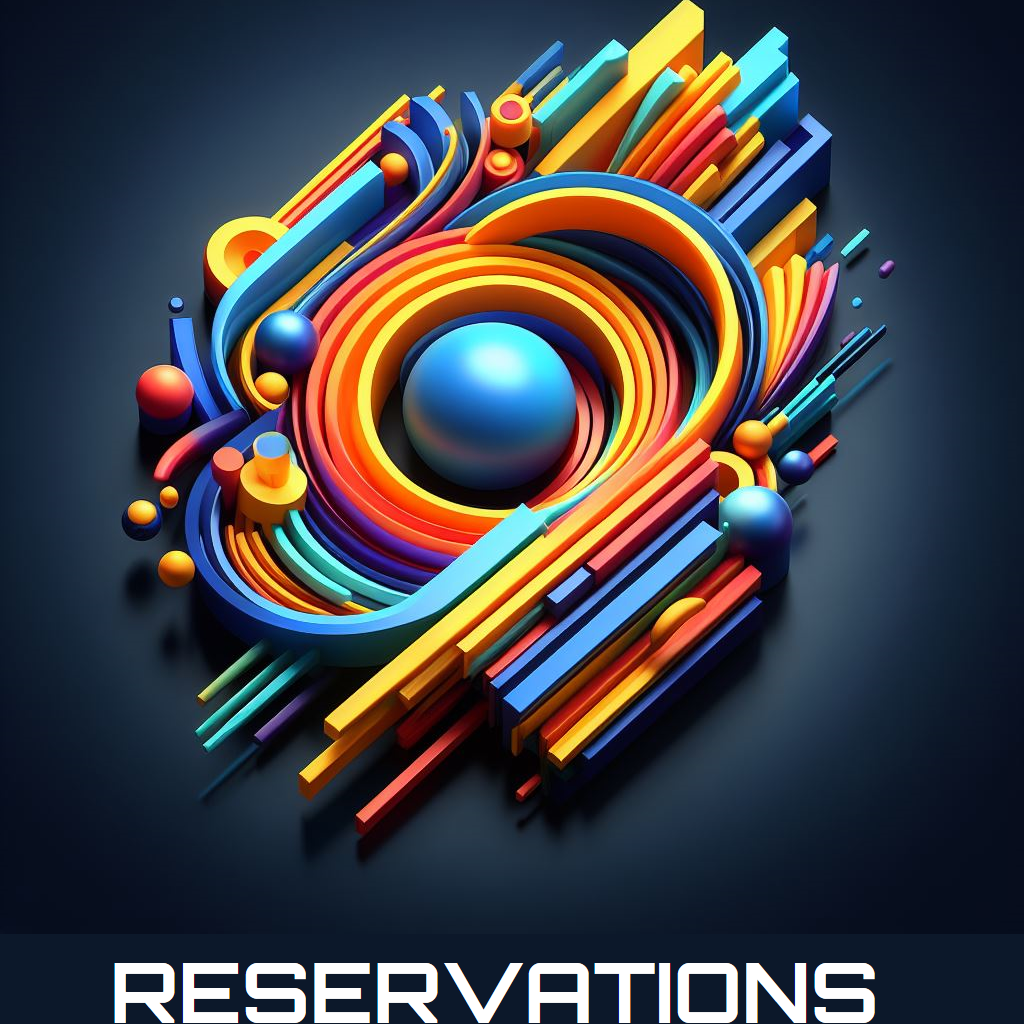
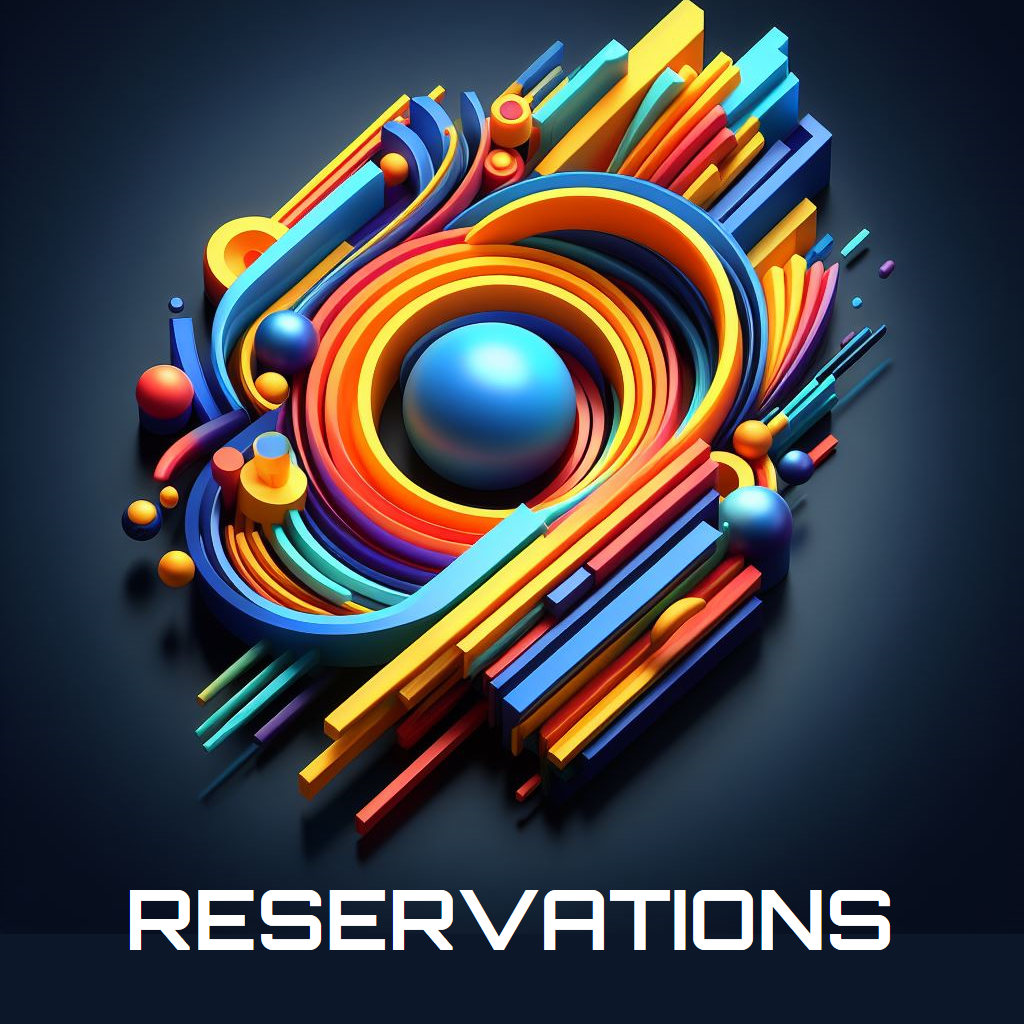
Implemented performace and reservation images and layout in home view.

Changed region(s): [[0.0938, 0.8438, 0.875, 1.0]]

diff --git a/app/javascript/controllers/mobilemenu_controller.js b/app/javascript/controllers/mobilemenu_controller.js
@@ -15,4 +15,7 @@ export default class extends Controller {
   hideMenu() {
     this.menuTarget.classList.add("hidden");
   }
+  closeMenu() {
+    this.menuTarget.classList.add("hidden");
+  }
 }
